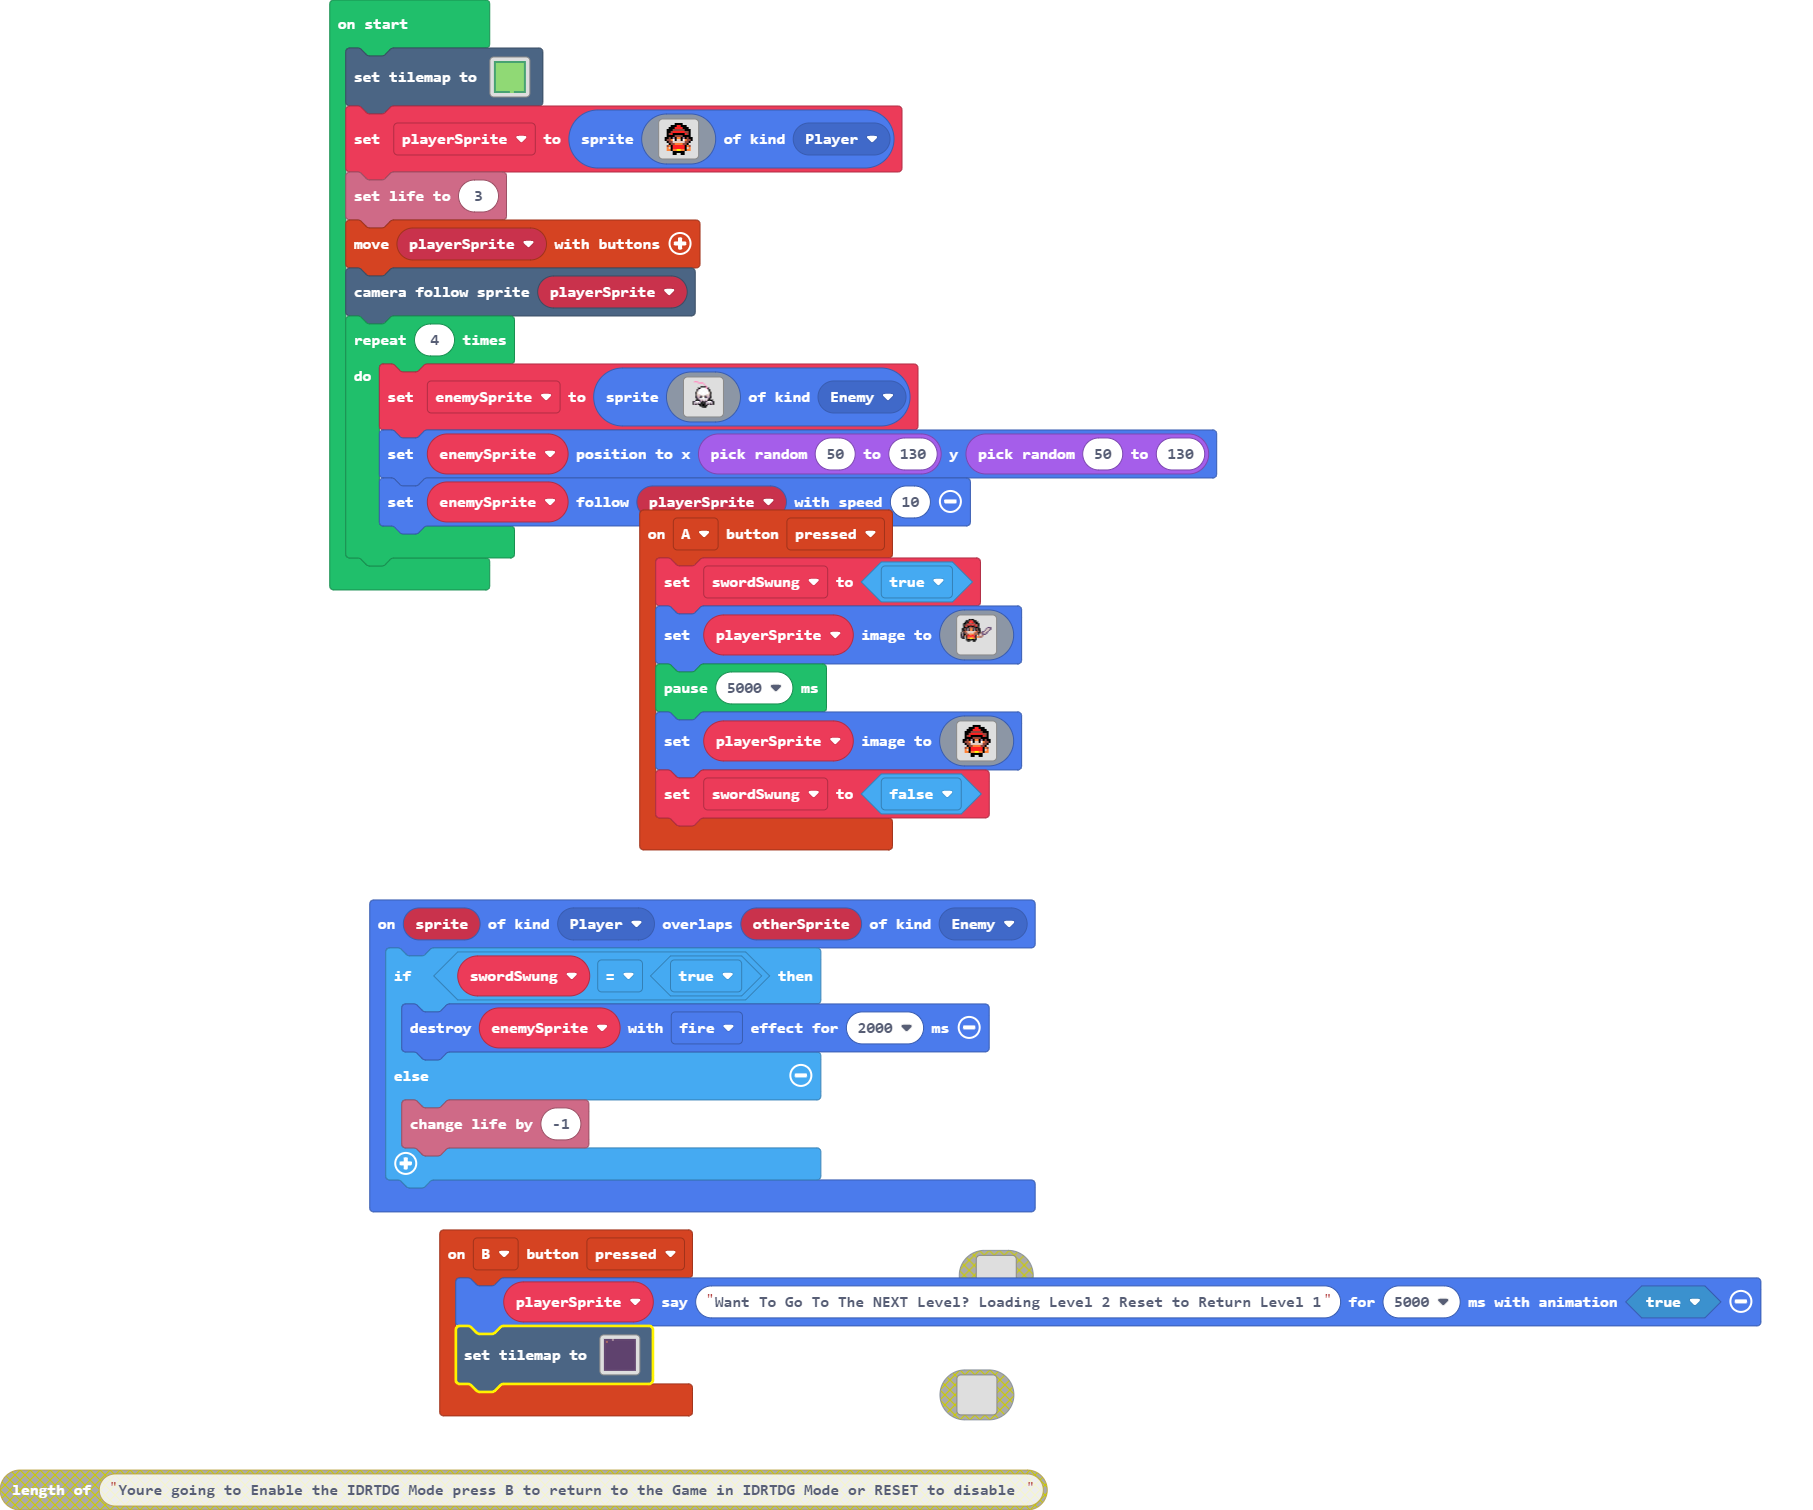
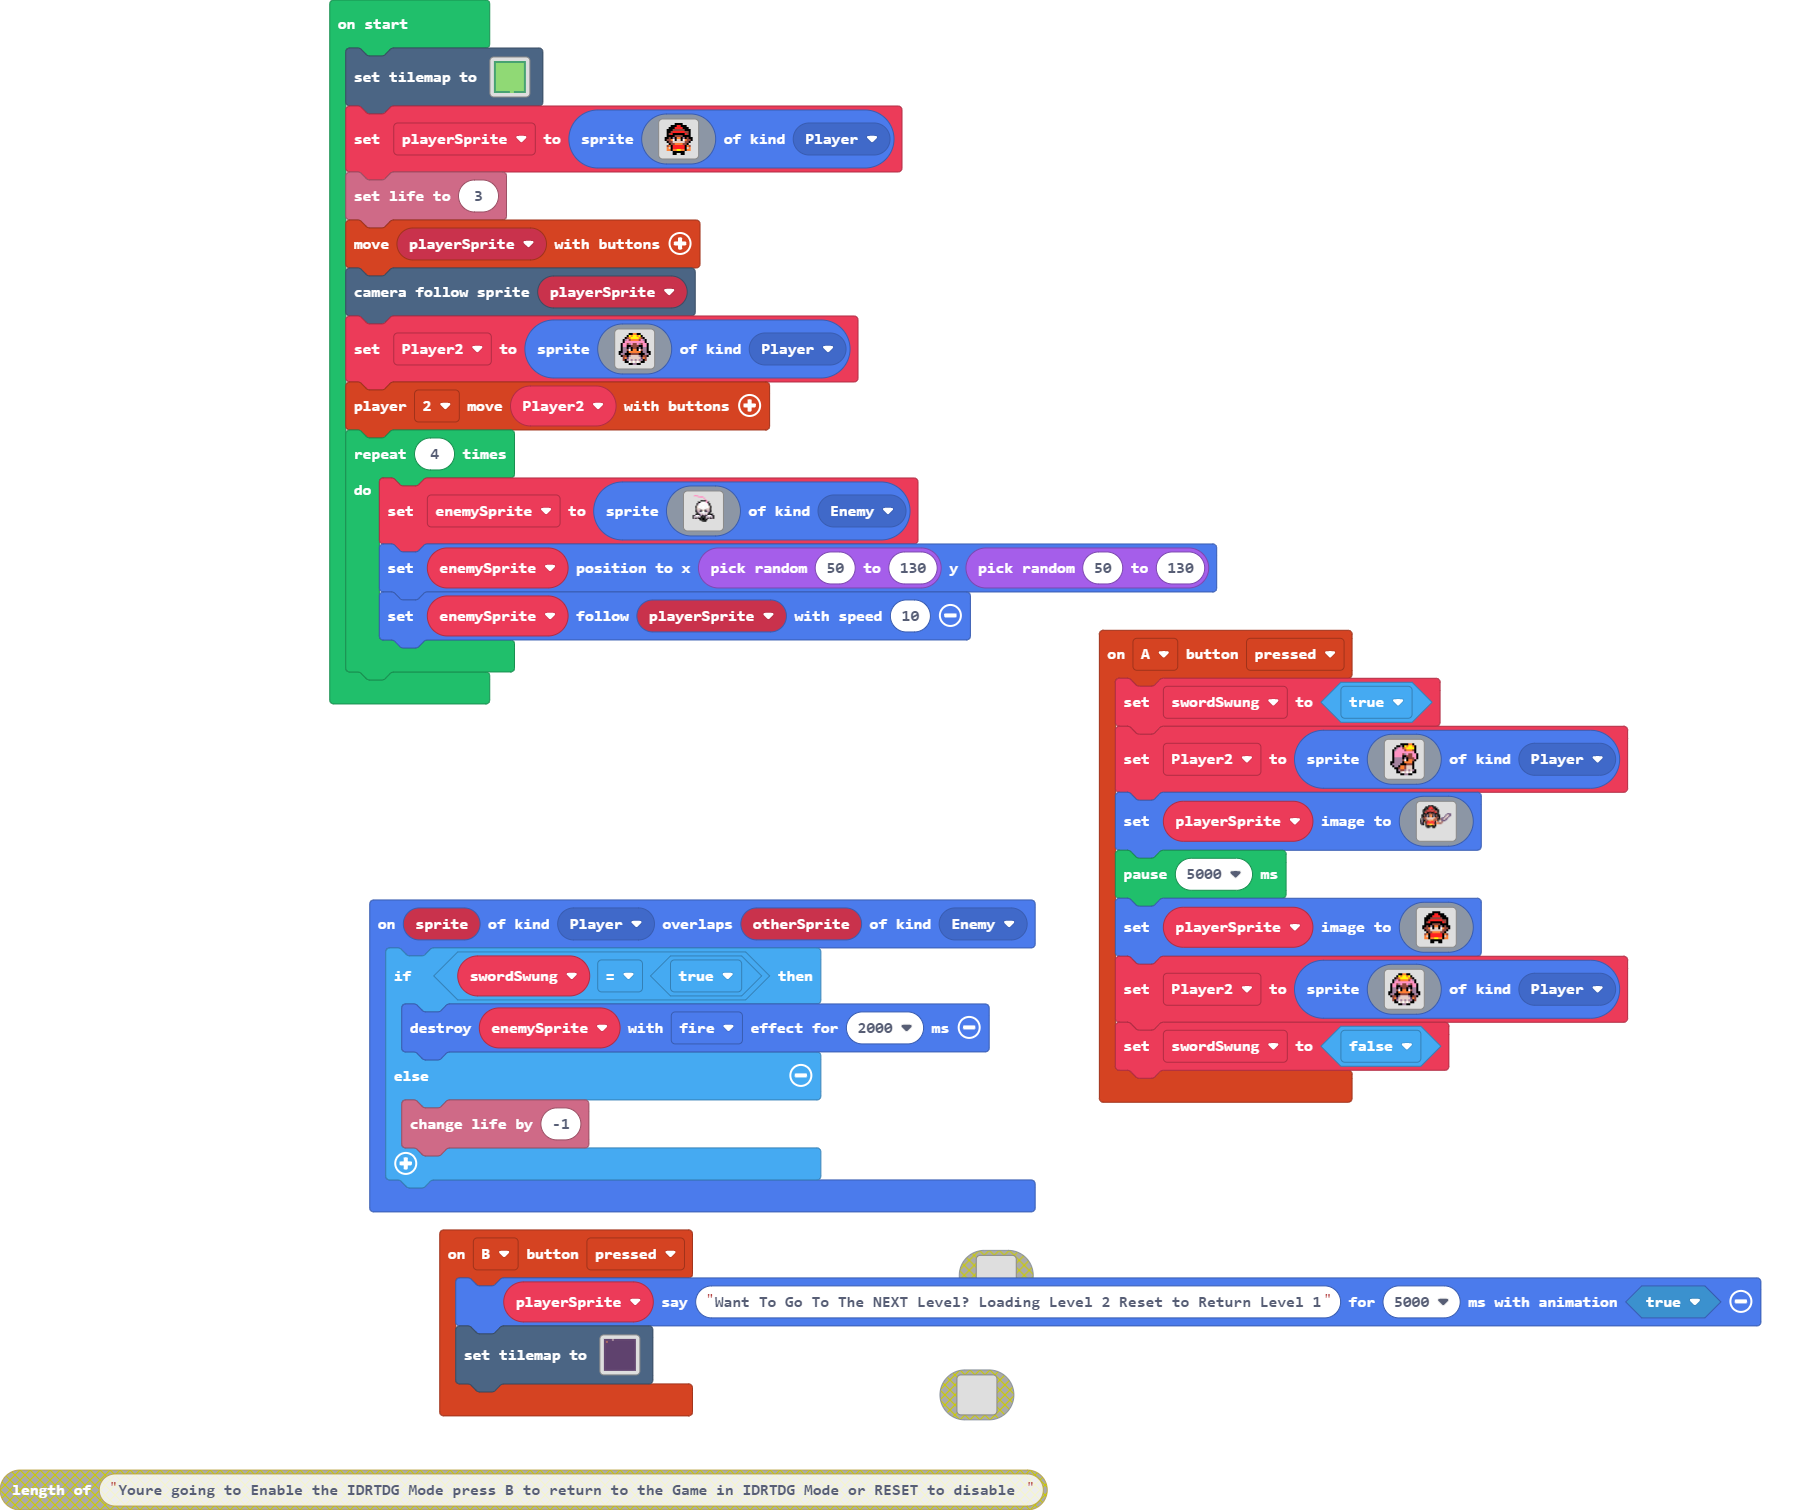
Pauls Adventure now is Multiplayer Play With Friends!

Changed region(s): [[0.1544, 0.1868, 0.8958, 0.747], [0.2471, 0.8715, 0.278, 0.9338], [0.3398, 0.8715, 0.3707, 0.9026]]

diff --git a/main.ts b/main.ts
@@ -4,9 +4,28 @@ controller.B.onEvent(ControllerButtonEvent.Pressed, function () {
 })
 controller.A.onEvent(ControllerButtonEvent.Pressed, function () {
     swordSwung = true
+    Player2 = sprites.create(assets.image`GirlFriend Battling`, SpriteKind.Player)
     playerSprite.setImage(assets.image`PaulSword`)
     pause(5000)
     playerSprite.setImage(assets.image`PaulTypeSkin0`)
+    Player2 = sprites.create(img`
+        . . . . . f f 4 4 f f . . . . . 
+        . . . . f 5 4 5 5 4 5 f . . . . 
+        . . . f e 4 5 5 5 5 4 e f . . . 
+        . . f b 3 e 4 4 4 4 e 3 b f . . 
+        . . f 3 3 3 3 3 3 3 3 3 3 f . . 
+        . f 3 3 e b 3 e e 3 b e 3 3 f . 
+        . f 3 3 f f e e e e f f 3 3 f . 
+        . f b b f b f e e f b f b b f . 
+        . f b b e 1 f 4 4 f 1 e b b f . 
+        f f b b f 4 4 4 4 4 4 f b b f f 
+        f b b f f f e e e e f f f b b f 
+        . f e e f b d d d d b f e e f . 
+        . . e 4 c d d d d d d c 4 e . . 
+        . . e f b d b d b d b b f e . . 
+        . . . f f 1 d 1 d 1 d f f . . . 
+        . . . . . f f b b f f . . . . . 
+        `, SpriteKind.Player)
     swordSwung = false
 })
 sprites.onOverlap(SpriteKind.Player, SpriteKind.Enemy, function (sprite, otherSprite) {
@@ -18,12 +37,15 @@ sprites.onOverlap(SpriteKind.Player, SpriteKind.Enemy, function (sprite, otherSp
 })
 let swordSwung = false
 let enemySprite: Sprite = null
+let Player2: Sprite = null
 let playerSprite: Sprite = null
 tiles.setTilemap(tilemap`level2`)
 playerSprite = sprites.create(assets.image`PaulTypeSkin`, SpriteKind.Player)
 info.setLife(3)
 controller.moveSprite(playerSprite)
 scene.cameraFollowSprite(playerSprite)
+Player2 = sprites.create(assets.image`King Pauls Girlfriend`, SpriteKind.Player)
+controller.player2.moveSprite(Player2)
 for (let index = 0; index < 4; index++) {
     enemySprite = sprites.create(assets.image`enemyImage`, SpriteKind.Enemy)
     enemySprite.setPosition(randint(50, 130), randint(50, 130))

diff --git a/images.g.ts b/images.g.ts
@@ -152,6 +152,44 @@ fcf.f222222f44ee........
 . . . . . f f f f f f . . . . . 
 . . . . . f f . . f f . . . . . 
 `;
+            case "image8":
+            case "King Pauls Girlfriend":return img`
+. . . . . f f 4 4 f f . . . . . 
+. . . . f 5 4 5 5 4 5 f . . . . 
+. . . f e 4 5 5 5 5 4 e f . . . 
+. . f b 3 e 4 4 4 4 e 3 b f . . 
+. . f 3 3 3 3 3 3 3 3 3 3 f . . 
+. f 3 3 e b 3 e e 3 b e 3 3 f . 
+. f 3 3 f f e e e e f f 3 3 f . 
+. f b b f b f e e f b f b b f . 
+. f b b e 1 f 4 4 f 1 e b b f . 
+f f b b f 4 4 4 4 4 4 f b b f f 
+f b b f f f e e e e f f f b b f 
+. f e e f b d d d d b f e e f . 
+. . e 4 c d d d d d d c 4 e . . 
+. . e f b d b d b d b b f e . . 
+. . . f f 1 d 1 d 1 d f f . . . 
+. . . . . f f b b f f . . . . . 
+`;
+            case "image9":
+            case "GirlFriend Battling":return img`
+. . . . . . f f f f 4 4 f . . . 
+. . . . f f b f 5 4 5 5 4 f . . 
+. . . f b 3 3 e 4 5 5 5 5 f . . 
+. . f b 3 3 3 3 e 4 4 4 e f . . 
+. . f 3 3 3 3 3 3 3 3 3 3 f . . 
+. . f 3 3 3 3 e b 3 e e 3 3 f . 
+. . f 3 3 3 3 f f e e e 3 3 f . 
+. . f b b b b f b f e e e 3 f . 
+. . f b b b b e 1 f 4 4 e f . . 
+. f f b b b b f 4 4 4 4 f . . . 
+. f b b b b f f f e e e f . . . 
+. . f b b f 4 4 e d d d f . . . 
+. . . f f e 4 4 e d d d f . . . 
+. . . . f b e e b d b d b f . . 
+. . . . f f d 1 d 1 d 1 f f . . 
+. . . . . . f f b b f f . . . . 
+`;
         }
         return null;
     })
